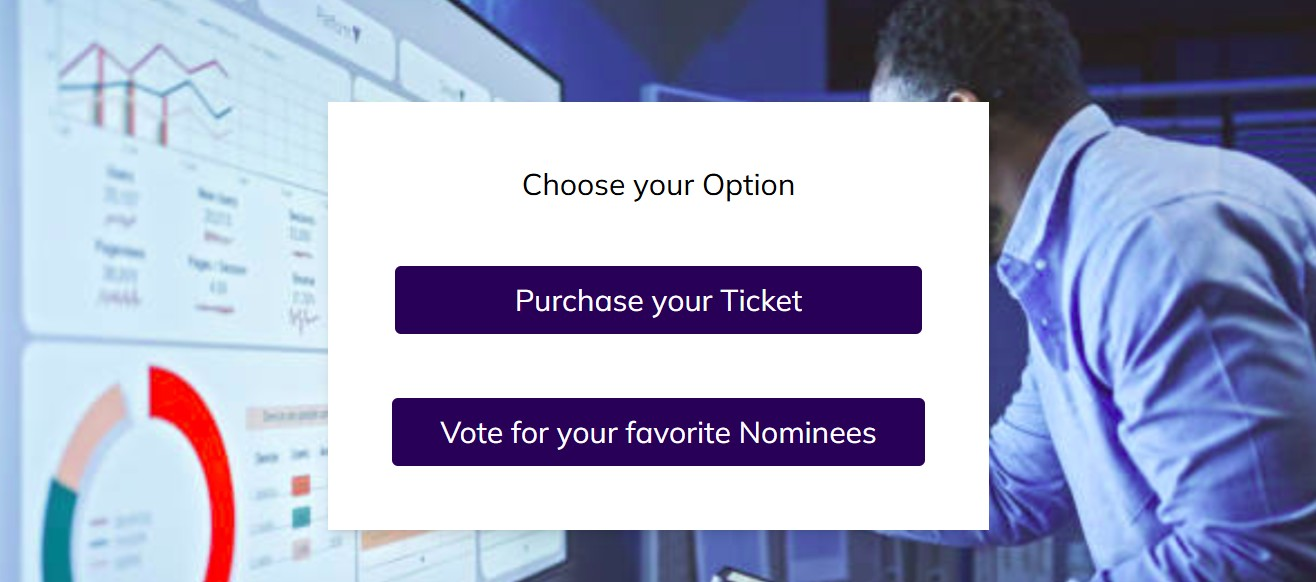
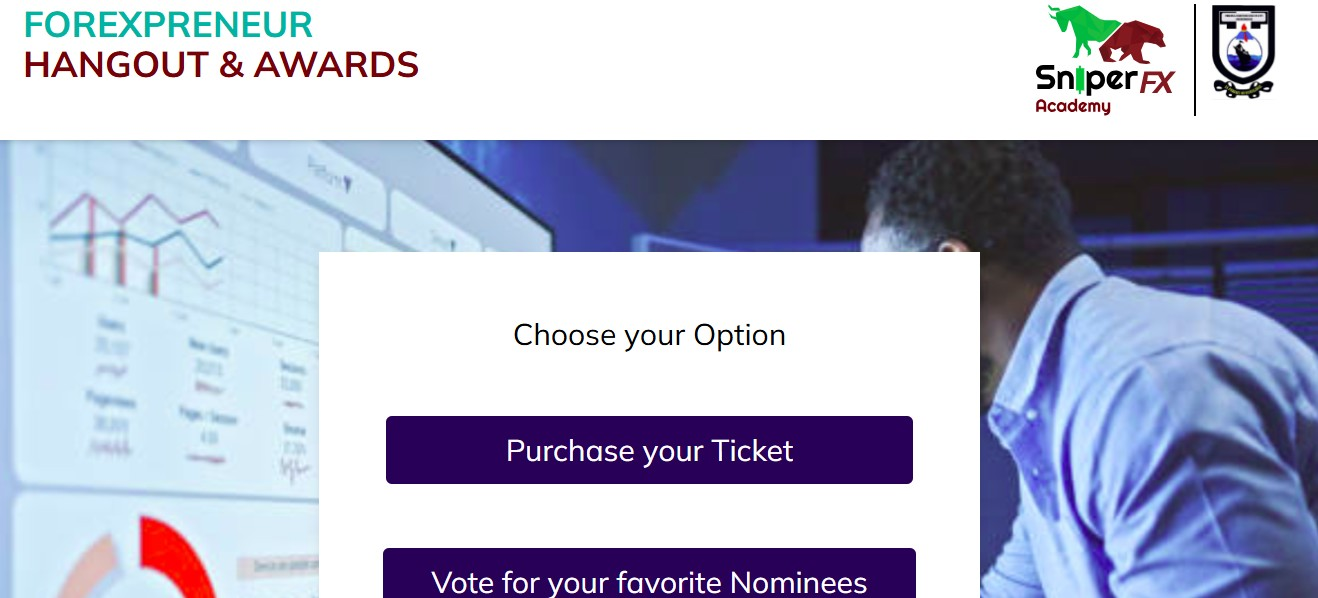
replaced images t display

diff --git a/src/utils/index.ts b/src/utils/index.ts
@@ -14,7 +14,7 @@ export const projects: Project[] = [
     title: "Social Media boosting Platform (Igcarts)",
     category: "Web Development",
     // image: "https://images.unsplash.com/photo-1486312338219-ce68d2c6f44d",
-    image: "/igcartsss.jpg",
+    image: "/igcarts.jpg",
     description: "A modern social media boosting solution built with React.",
     technologies: ["React", "Javascript", "Redux", "Tailwind CSS", "APIs"],
     link: "https://igcarts.com",
@@ -33,7 +33,7 @@ export const projects: Project[] = [
     id: 3,
     title: "Portfolio Website",
     category: "Web Development",
-    image: "/portfolio.jpg",
+    image: "/portfoliocode.jpg",
     description: "Responsive portfolio website with modern animations",
     technologies: ["Next.js", "TypeScript", "Tailwind CSS", "Framer Motion"],
     link: "https://omotosho-kamalideen.vercel.app/",
@@ -71,7 +71,7 @@ export const projects: Project[] = [
     id: 6,
     title: "Forepreneur Hangout Website",
     category: "Web Development",
-    image: "/forexpreneurr.jpg",
+    image: "/forexpreneur.jpg",
     description:
       "A mini-webapp with little integration to handle users voting and ticket buying for an event",
     technologies: ["Next.js", "TypeScript", "Tailwind CSS", "APIs"],

diff --git a/src/components/Contact.tsx b/src/components/Contact.tsx
@@ -16,11 +16,11 @@ const Contact = () => {
             <p className="font-playfair text-xl text-[#B4A2F6] md:text-2xl">
               Get in touch
             </p>
-            <p className="font-playfair text-lg text-justify md:text-6xl mt-4 text-[#B4A2F6]">
+            <p className="font-playfair text-lg text-justify md:text-6xl mt-6 text-[#B4A2F6]">
               Feel free to reach out for questions, quotes, or collaborations.
             </p>
             <a href="mailto:dapious99@gmail.com" className="">
-              <motion.button className="text-white bg-[#B4A2F6] mt-4 rounded-full font-inter px-12 md:px-20 py-3 hover:bg- transition-colors">
+              <motion.button className="text-white bg-[#B4A2F6] mt-8 rounded-full font-inter px-12 md:px-20 py-3 hover:bg- transition-colors">
                 Say Hi!
               </motion.button>
             </a>
